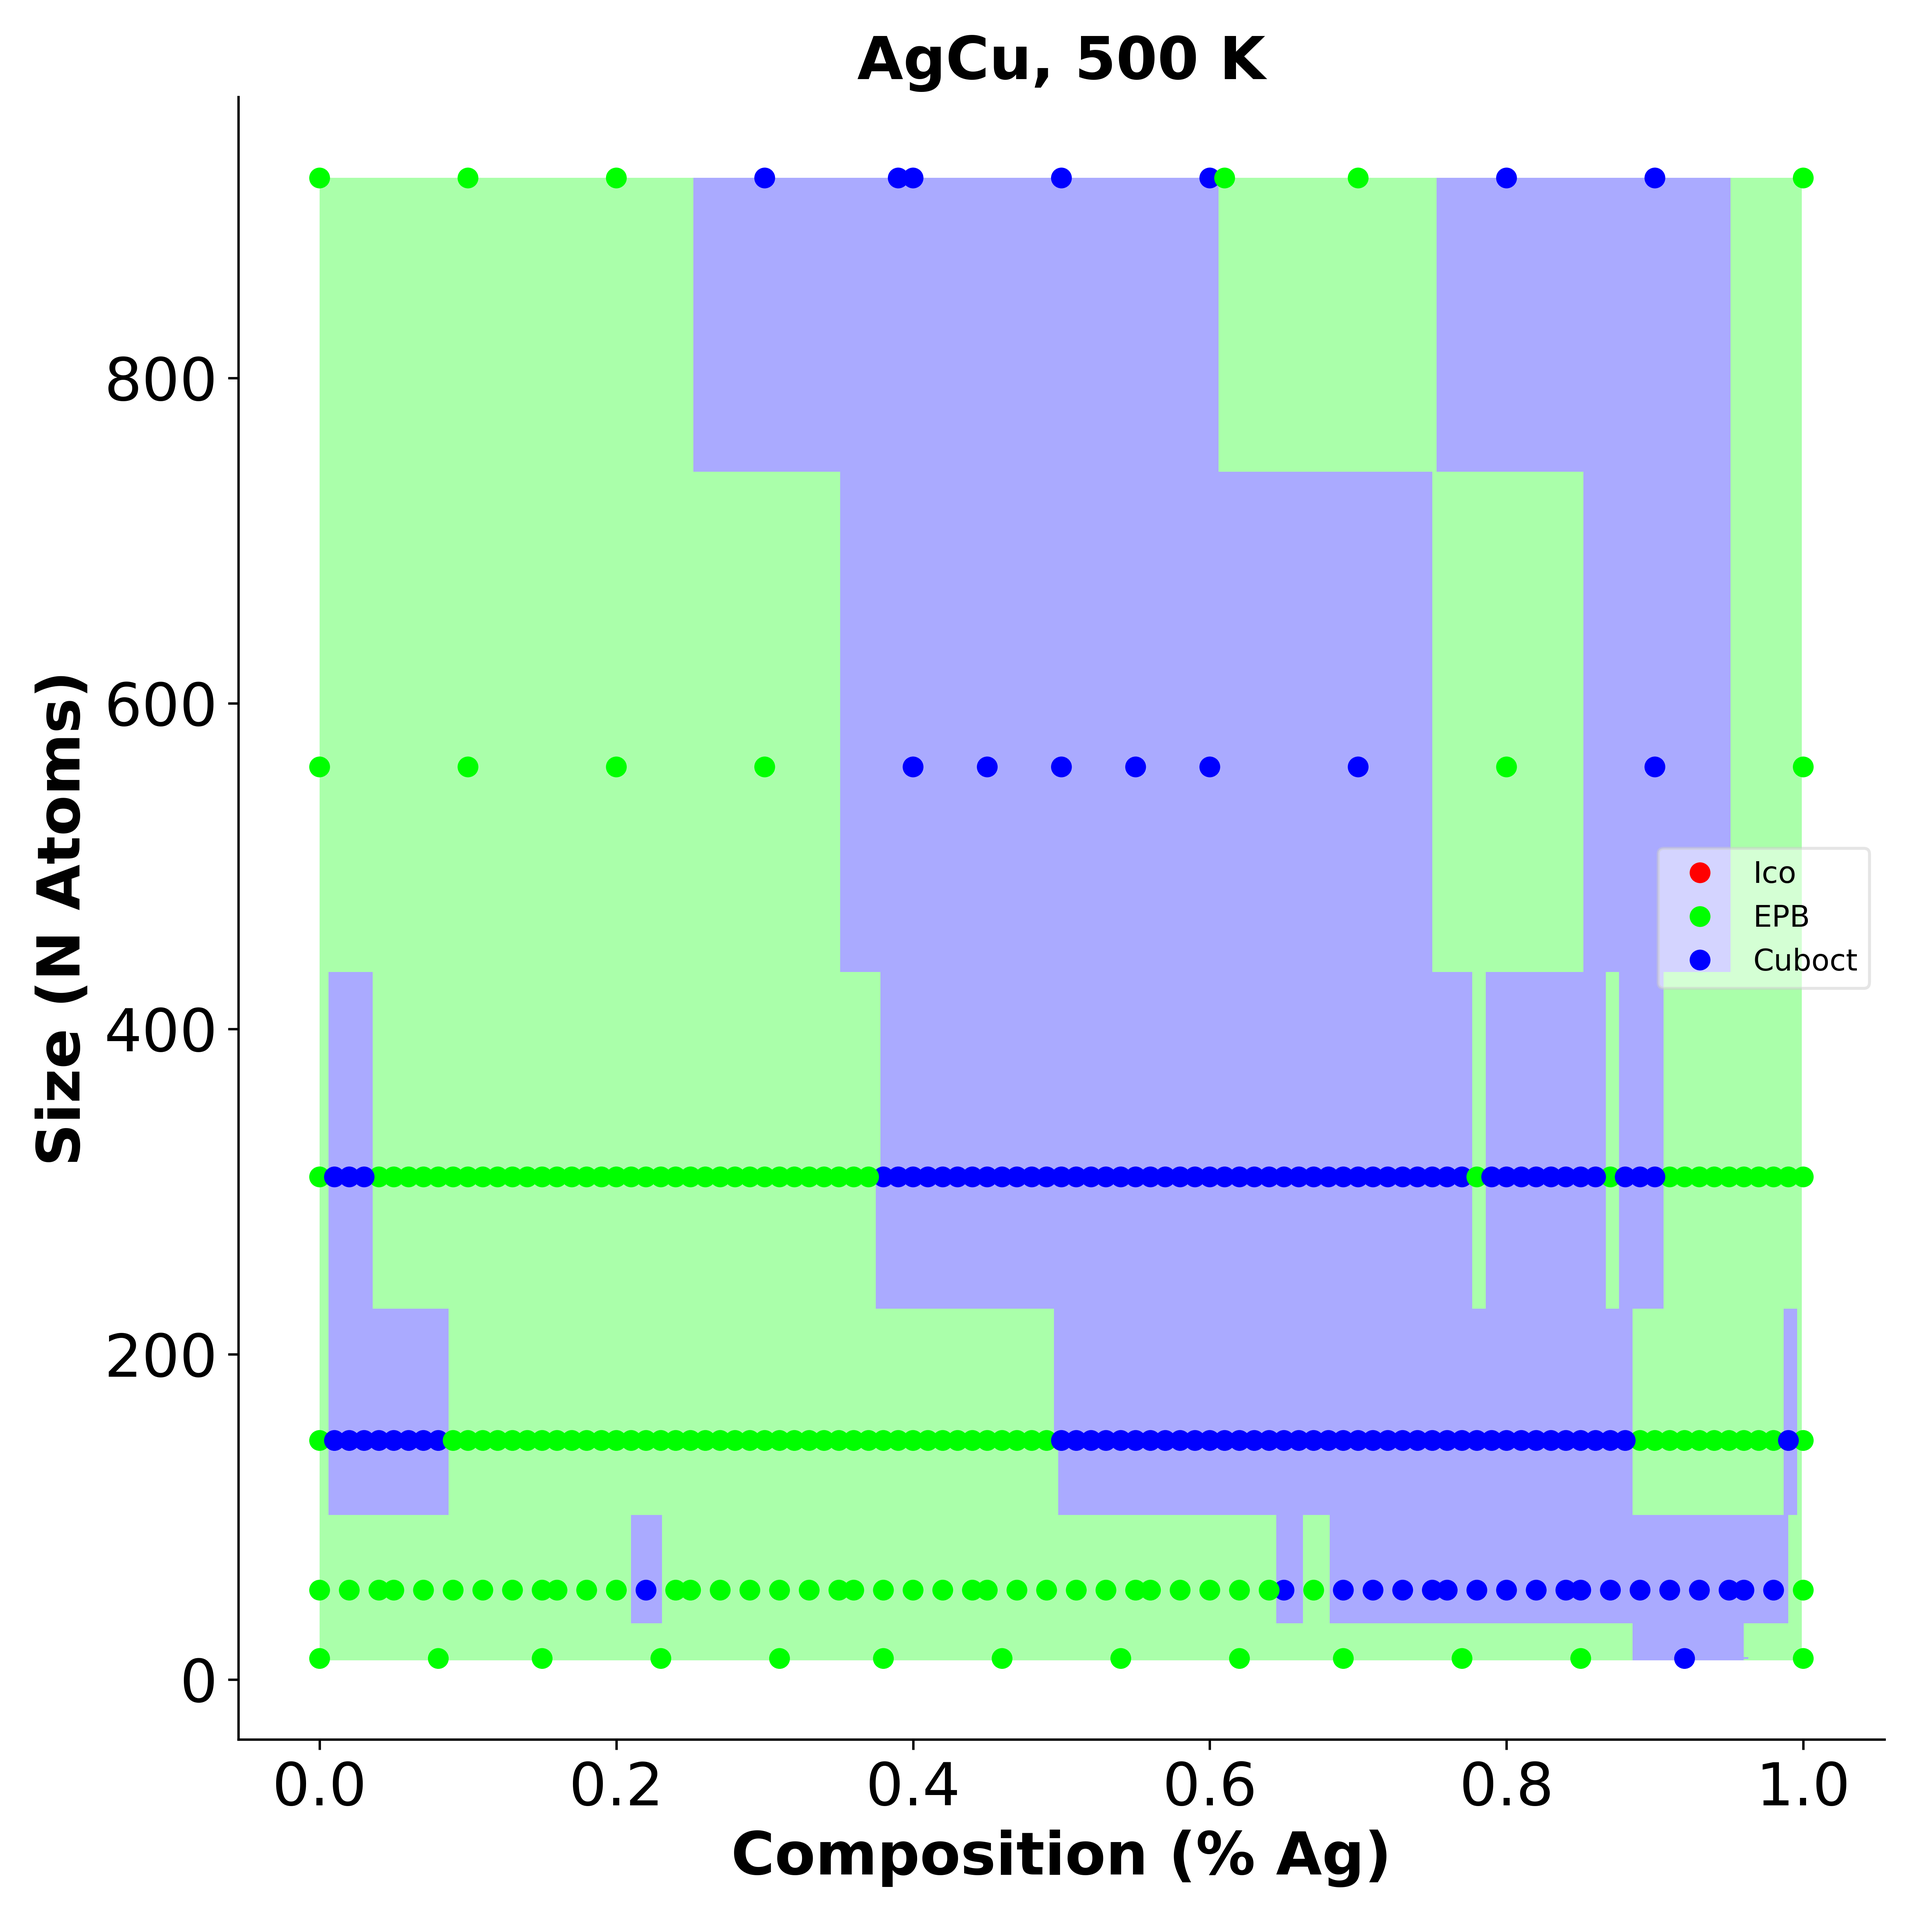
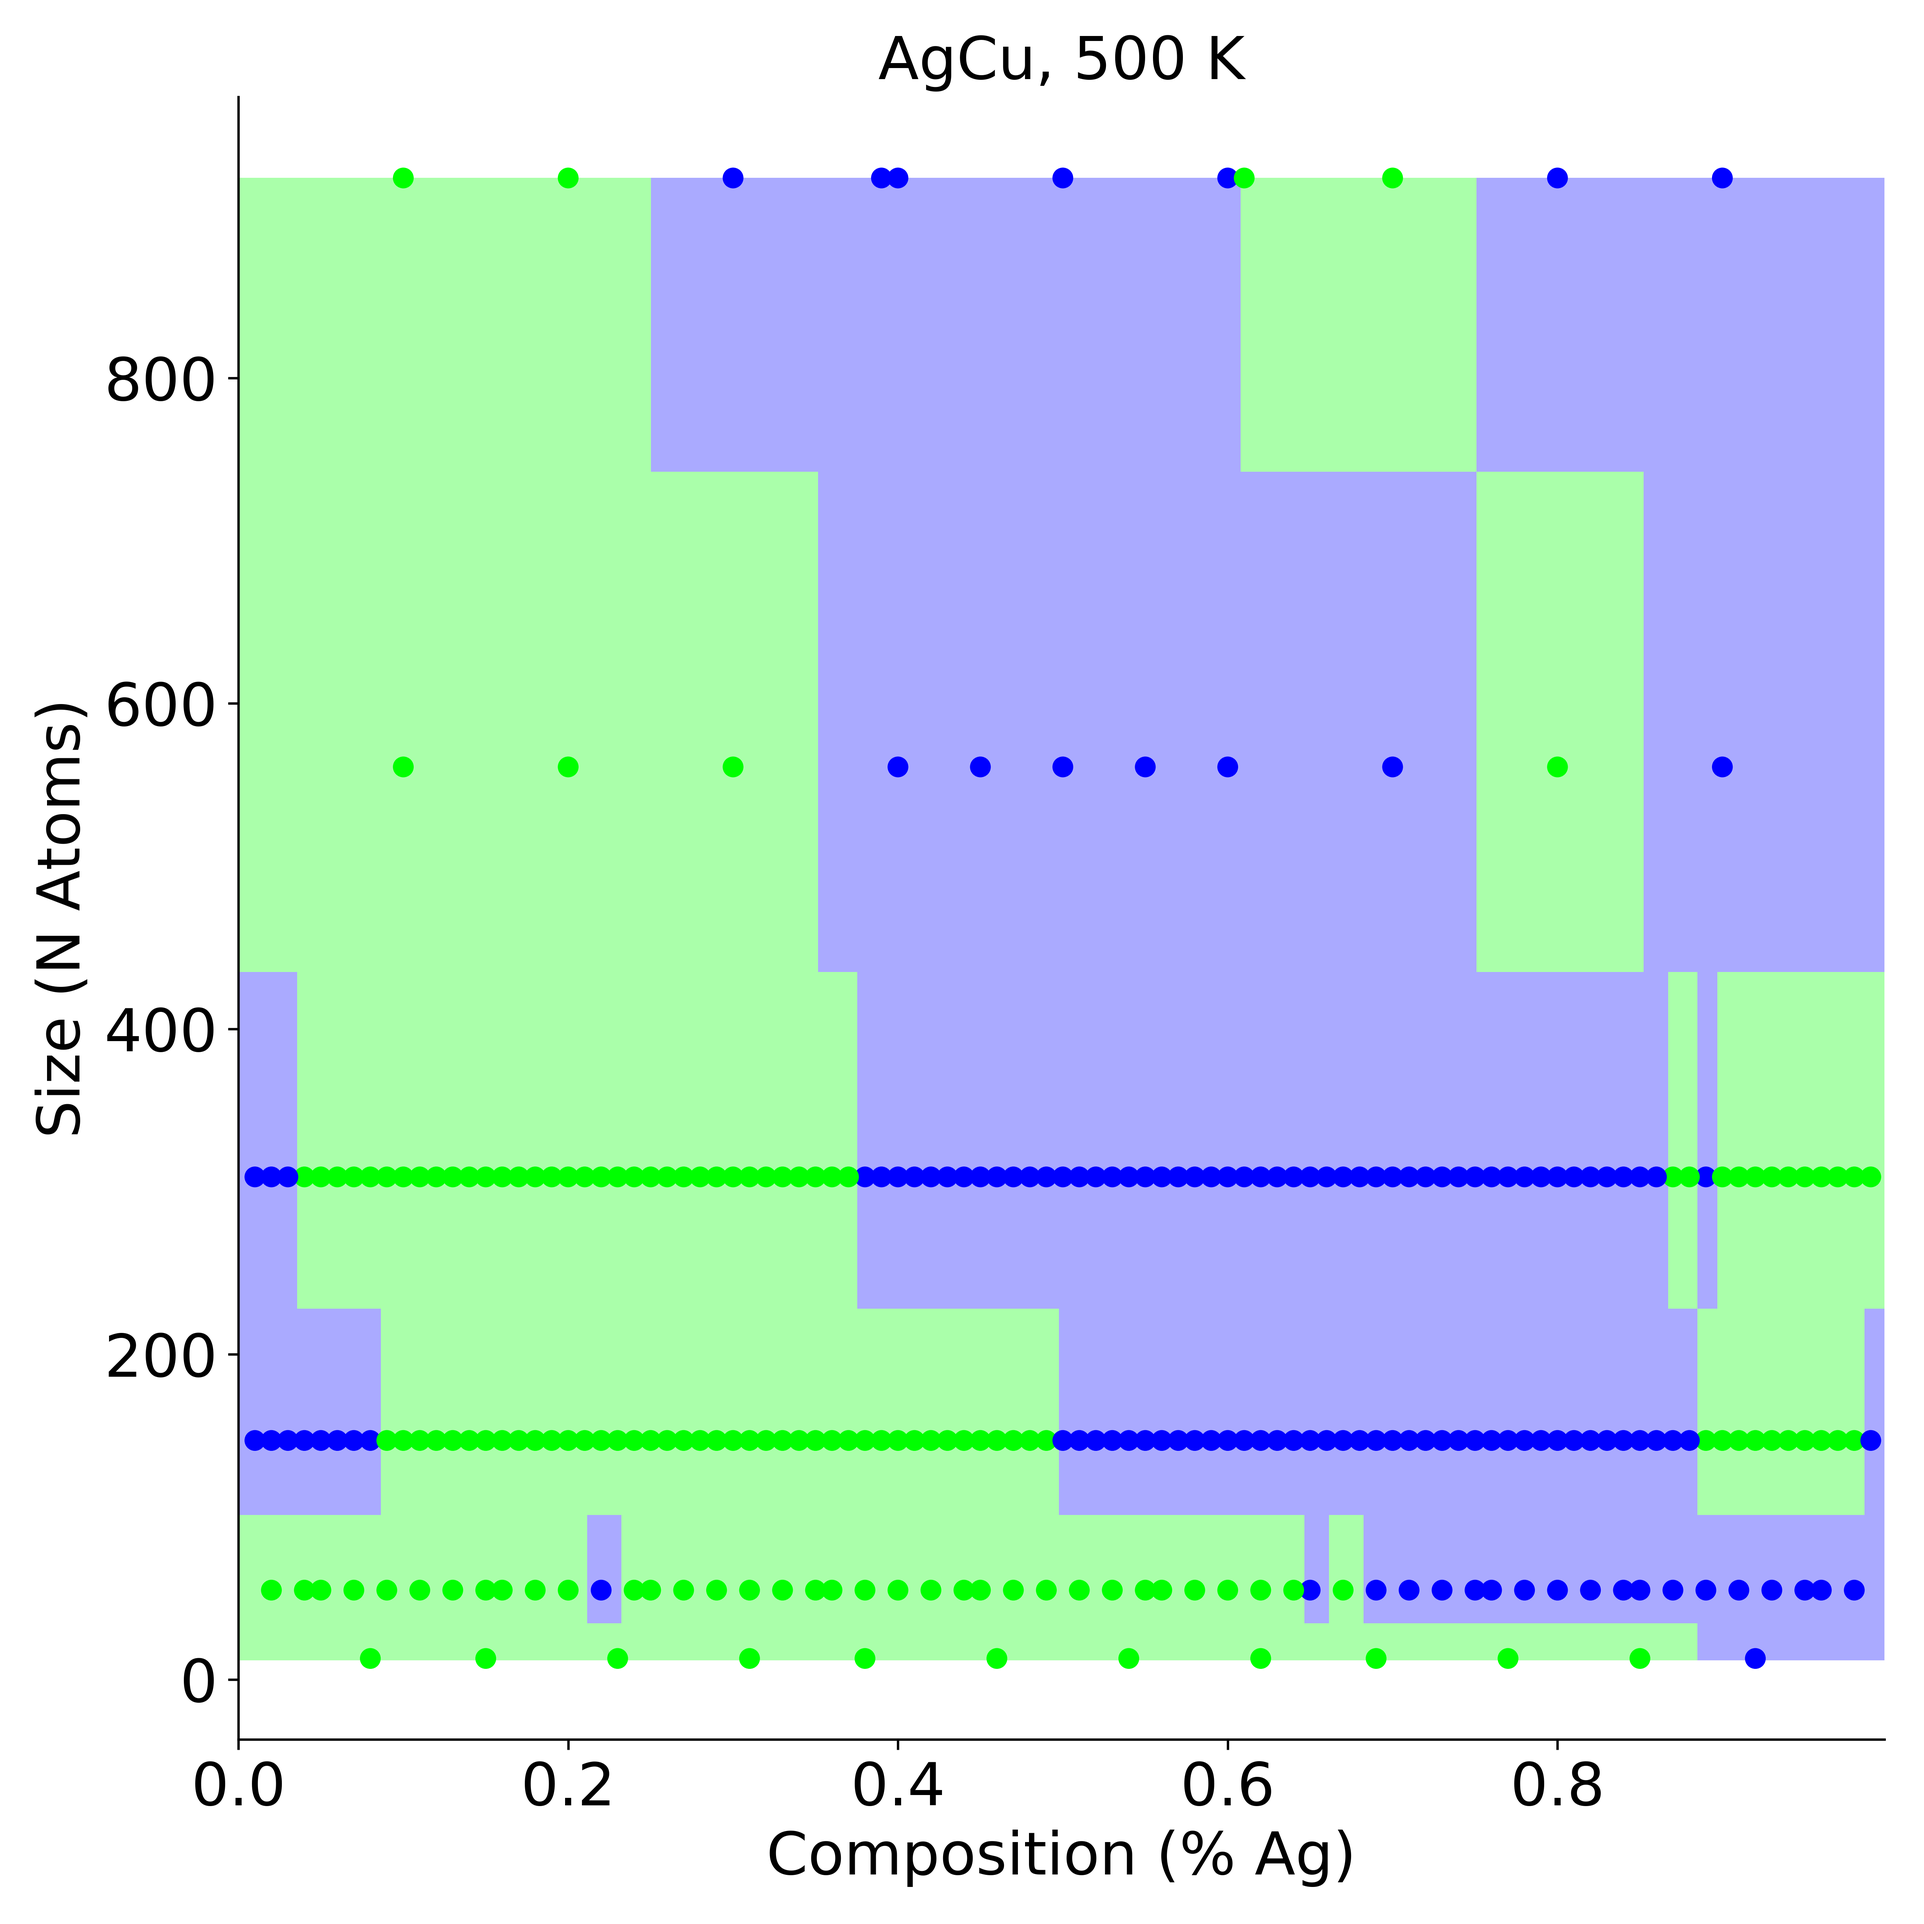
SizeComp plots now ignore monometallic boundaries

diff --git a/example/ex_6_crystal_cells/ex6.py b/example/ex_6_crystal_cells/ex6.py
@@ -1,5 +1,7 @@
 #!/usr/bin/env python
 
+import os
+
 import ase.lattice.cubic
 import ase.neighborlist
 
@@ -8,31 +10,38 @@ import atomgraph
 import ga
 
 # Make a generic FCC cell
-cell_size = 1
-fcc_cell = ase.lattice.cubic.FaceCenteredCubic(symbol="Cu", size=[cell_size, cell_size, cell_size])
-bonds = adjacency.buildBondsList(fcc_cell)
-metal1 = "Au"
-metal2 = "Ag"
-graph = atomgraph.AtomGraph(bonds.copy(), metal1, metal2)
+for cell_size in range(5,10):
+    pairs = [["Ag","Au"],["Ag","Cu"],["Au","Cu"]]
+    fcc_cell = ase.lattice.cubic.FaceCenteredCubic(symbol="Cu", size=[cell_size, cell_size, cell_size])
+    bonds = adjacency.buildBondsList(fcc_cell)
+    for pair in pairs:
+        try:
+            metal1 = pair[0]
+            metal2 = pair[1]
+            graph = atomgraph.AtomGraph(bonds.copy(), metal1, metal2)
 
-# Genetic Algorithm
-n_atoms = len(fcc_cell)
-known_comps = [None] * 101
-for composition in range(0,101,1):
-    percent = composition / 100
-    n_metal1 = int(percent * n_atoms)
-    if n_metal1 in known_comps:
-        continue
-    else:
-        known_comps[composition] = n_metal1
-    n_metal2 = n_atoms - n_metal1
-    formula = f"{metal1}{n_metal1}{metal2}{n_metal2}"
-    print(f"Composition: {composition}%, {formula}")
-    pop = ga.Pop(fcc_cell,
-                 bond_list=bonds.copy(),
-                 metals=(metal1, metal2),
-                 shape="fcc_cell",
-                 n_metal2=n_metal2,
-                 atomg=graph)
-    pop.run(max_nochange=1)
-    ga.make_file(pop.atom, pop[0], f"cells/{formula}.cif", filetype="cif")
+            # Genetic Algorithm
+            n_atoms = len(fcc_cell)
+            known_comps = [None] * 101
+            for composition in range(0,101):
+                percent = composition / 100
+                n_metal1 = int(percent * n_atoms)
+                if n_metal1 in known_comps:
+                    continue
+                else:
+                    known_comps[composition] = n_metal1
+                n_metal2 = n_atoms - n_metal1
+                formula = f"{metal1}{n_metal1}{metal2}{n_metal2}"
+                if os.path.exists(f"cells/{formula}.cif"):
+                    continue
+                print(f"Composition: {composition}%, {formula}")
+                pop = ga.Pop(fcc_cell,
+                             bond_list=bonds.copy(),
+                             metals=(metal1, metal2),
+                             shape="fcc_cell",
+                             n_metal2=n_metal2,
+                             atomg=graph)
+                pop.run(max_nochange=2000)
+                ga.make_file(pop.atom, pop[0], f"cells/{formula}.cif", filetype="cif")
+        except:
+            pass

diff --git a/example/ex_4_phase_diagrams/size_vs_comp.py b/example/ex_4_phase_diagrams/size_vs_comp.py
@@ -113,6 +113,7 @@ def get_best(alloy,
     for shape in shapes:
         query = npdb.db_inter.get_bimet_result(metals=alloy, shape=shape)
         for result in query:
+            print(result)
             # Calculate size
             size = result.num_atoms
             if size <= min_size or size >= max_size:
@@ -136,6 +137,7 @@ def get_best(alloy,
 
     # Choose minimum-energy objects to plot
     for result in results:
+        print(result)
         for temp in result.free_energies:
             compared = chosen_dict[temp][comps.index(result.composition)][sizes.index(result.size)]
             if compared.energy is None:
@@ -213,7 +215,7 @@ def make_unfilled(points, alloy):
         # Add points
         for composition in points[temp]:
             for point in composition:
-                if None in [point.comp, point.size, point.energy]:
+                if None in [point.comp, point.size, point.energy] or point.comp == 0 or point.comp==1:
                     pass
                 ax.scatter(point.comp, point.size, c=point.color, marker=point.symbol, s=point.symbol_size)
 
@@ -247,7 +249,7 @@ def make_filled(points, alloy, resolution=10):
         colors = []
         for composition in points[temp]:
             for point in composition:
-                if None in [point.comp, point.size]:
+                if None in [point.comp, point.size] or point.comp == 0 or point.comp == 1:
                     continue
                 sizes.add(point.size)
                 comps.add(point.comp)
@@ -286,12 +288,15 @@ def make_filled(points, alloy, resolution=10):
         custom_legend = [matplotlib.lines.Line2D([0],[0], color=cmap_bold(0), marker="o", lw=0),
                          matplotlib.lines.Line2D([0],[0], color=cmap_bold(1), marker="o", lw=0),
                          matplotlib.lines.Line2D([0],[0], color=cmap_bold(2), marker="o", lw=0)]
-        ax.legend(custom_legend, ["Ico", "EPB", "Cuboct"], fancybox=True, framealpha=0.5)
+        #ax.legend(custom_legend, ["Ico", "EPB", "Cuboct"], fancybox=True, framealpha=0.5)
         plt.tight_layout()
         plt.savefig("size_comp_" + alloy + "_" + str(temp) + "K.png")
         plt.close()
 
 alloys = ["AgAu" , "AgCu", "AuCu"]
+print("asdf")
 for alloy in alloys:
+    print(alloy)
     results = get_best(alloy, [0, 1000], [0, 1000], temperature_res=250)
+    print("asdfasdfasdf")
     make_filled(results, alloy, resolution=1000)
